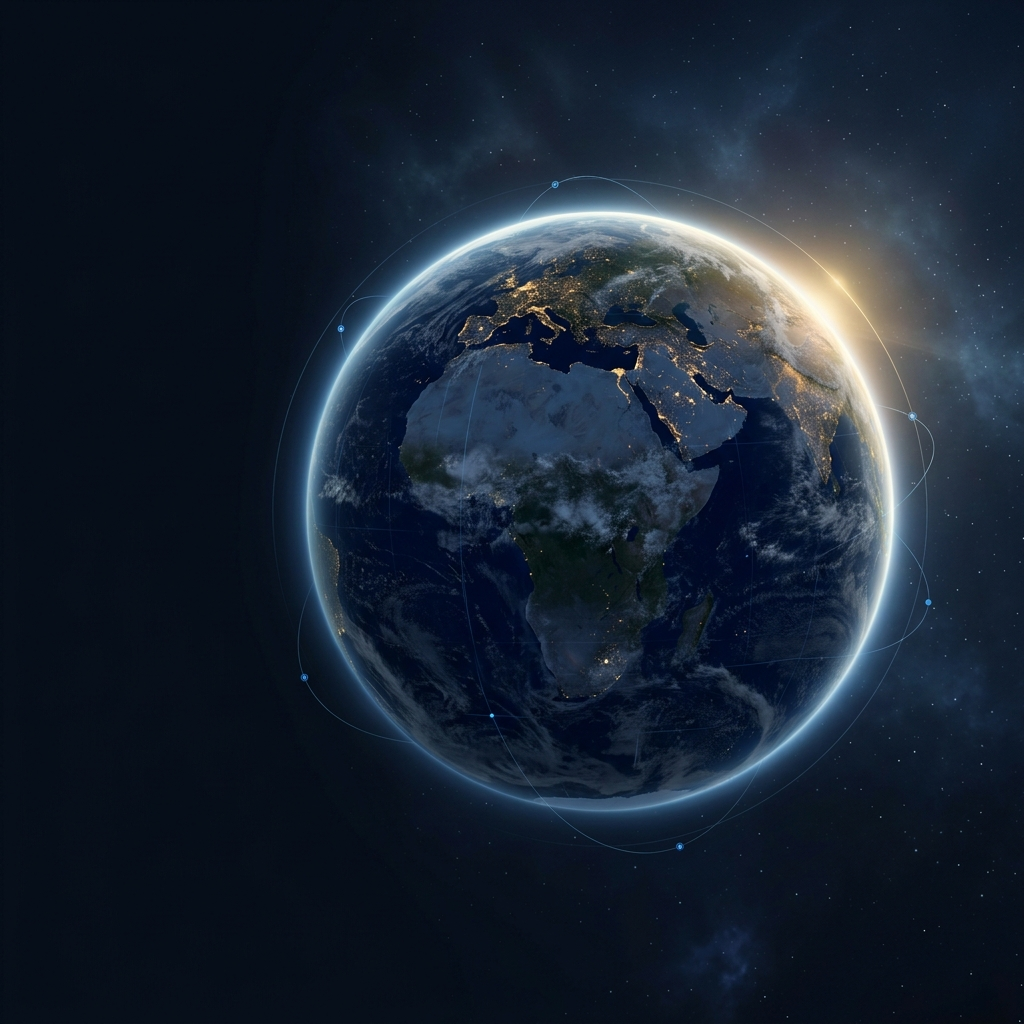
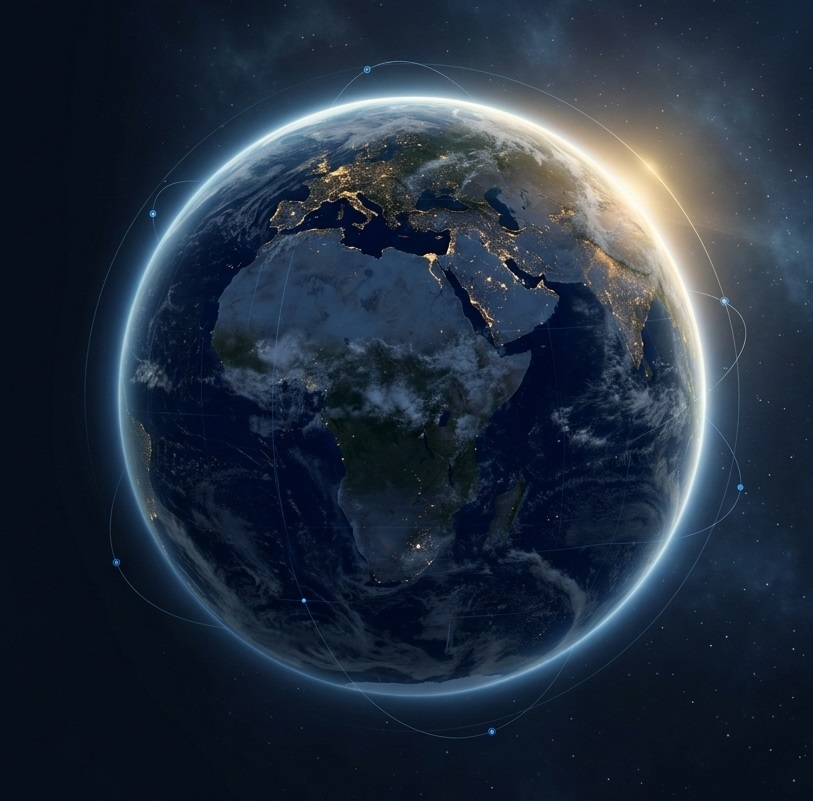
July update

diff --git a/spatialtech-backend/public/style.css b/spatialtech-backend/public/style.css
@@ -464,8 +464,9 @@ h6 {
   position: absolute;
   inset: 0;
   background-image: url("images/premium-earth-hero-clean.png");
+  background-repeat: no-repeat;
   background-size: cover;
-  background-position: center;
+  background-position: 38% center;
   z-index: 1;
   opacity: 1;
 }
@@ -1313,15 +1314,6 @@ h6 {
   position: relative;
 }
 
-.footer::before {
-  content: '';
-  position: absolute;
-  top: 0;
-  left: 0;
-  right: 0;
-  height: 1px;
-  background: linear-gradient(90deg, transparent, #ffffff, transparent);
-}
 
 .footer-grid {
   display: grid;
@@ -2339,6 +2331,16 @@ h6 {
   color: rgba(255, 255, 255, 0.4);
 }
 
+.page-header,
+.page-header .section-label,
+.page-header h1,
+.page-header p,
+.page-header .breadcrumb,
+.page-header .breadcrumb a,
+.page-header .breadcrumb span {
+  color: #ffffff;
+}
+
 /* ============================================================
    SERVICES CTA SECTION
    ============================================================ */
@@ -2648,7 +2650,6 @@ h6 {
   background: linear-gradient(135deg, #010138 0%, #0077ff 100%);
   padding: 80px 0 30px;
   position: relative;
-  border-top: 1px solid rgba(28, 168, 227, 0.2);
 }
 
 .footer-grid {
@@ -2708,18 +2709,6 @@ h6 {
   font-size: 1.1rem;
   color: #fff;
   margin-bottom: 24px;
-  position: relative;
-  padding-bottom: 12px;
-}
-
-.footer-col h4::after {
-  content: '';
-  position: absolute;
-  left: 0;
-  bottom: 0;
-  height: 2px;
-  width: 40px;
-  background: var(--neon-blue);
 }
 
 .footer-col ul li {

diff --git a/spatialtech-backend/public/services.html b/spatialtech-backend/public/services.html
@@ -302,7 +302,7 @@
                 <!-- Service 7: Capacity Building & GIS Training -->
                 <div class="service-card service-card-detailed fade-up">
                     <div class="service-card-image">
-                        <img src="images/about-team.png" alt="Capacity Building & GIS Training">
+                        <img src="images/about-team.jpeg" alt="Capacity Building & GIS Training">
                     </div>
                     <div class="service-icon">
                         <svg viewBox="0 0 24 24">
@@ -367,7 +367,7 @@
                 <!-- Service 9: Data Collection & Management -->
                 <div class="service-card service-card-detailed fade-up">
                     <div class="service-card-image">
-                        <img src="images/service-cyber-spatial.png" alt="Data Collection & Management">
+                        <img src="images/service-data-collection-management.png" alt="Data Collection & Management">
                     </div>
                     <div class="service-icon">
                         <svg viewBox="0 0 24 24">
